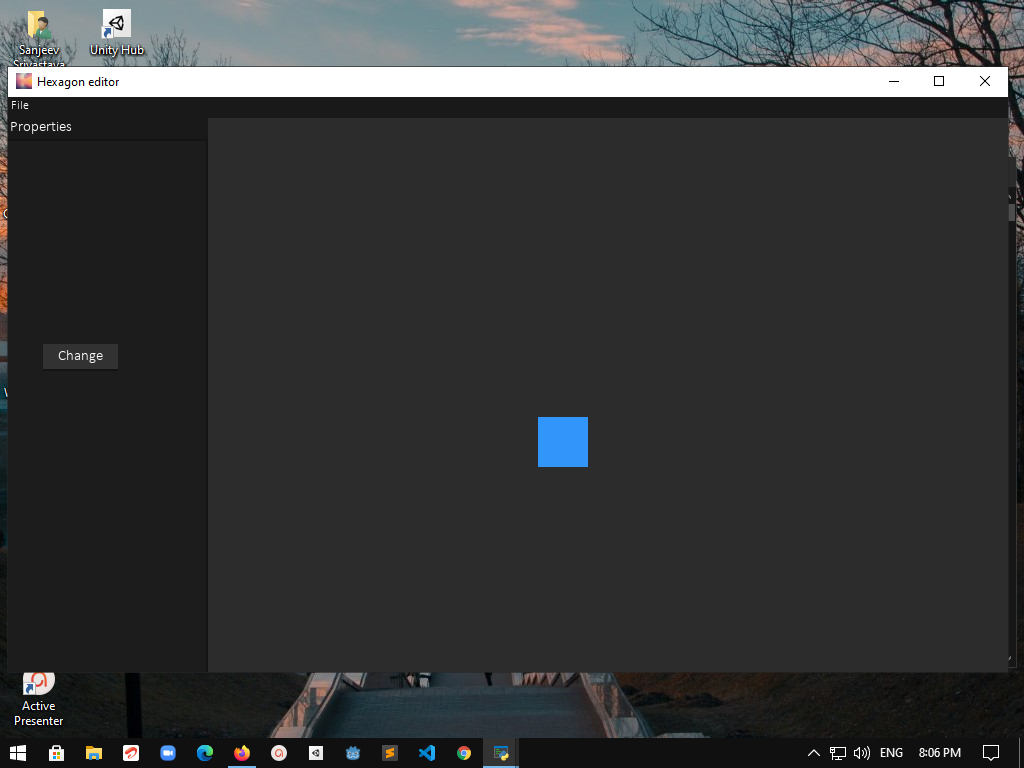
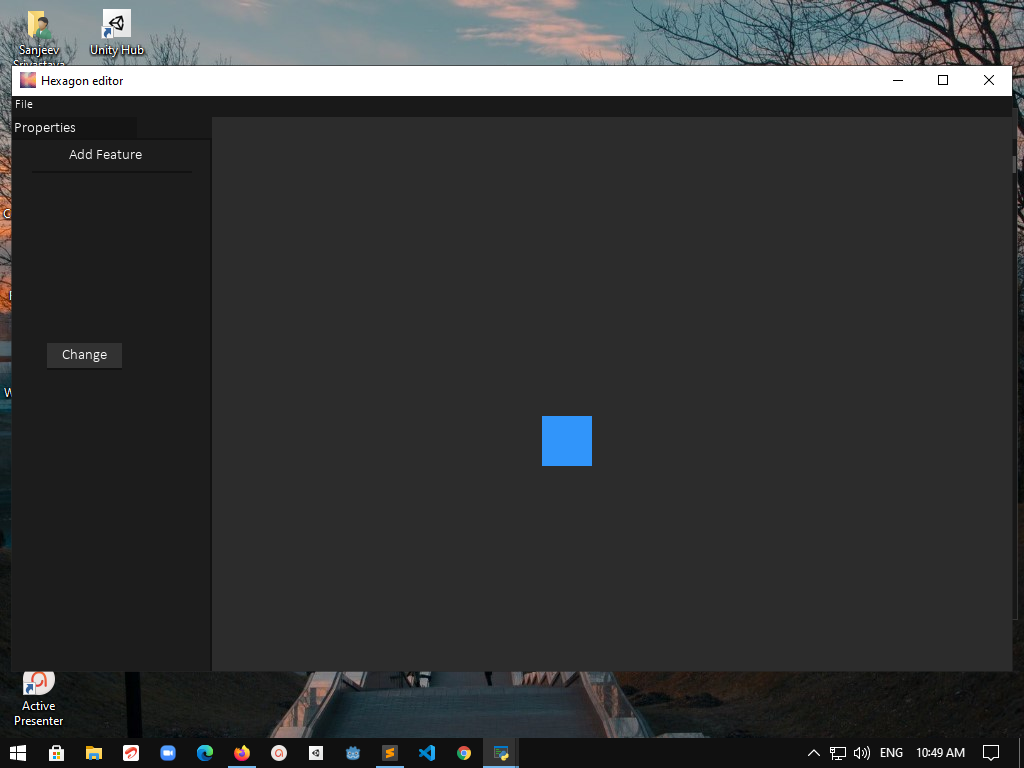
Change the look of Hexagon editor

diff --git a/Hexa.py b/Hexa.py
@@ -55,6 +55,7 @@ class GUI:
 				pygame.draw.rect(Display, self.NewColor, (self.Posx, self.Posy, self.Sizex, self.Sizey))
 				if pygame.mouse.get_pressed()[0]:
 					pygame.draw.rect(Display, self.Pressed, (self.Posx, self.Posy, self.Sizex, self.Sizey))
+					pygame.time.delay(100)
 					return 1
 
 				else: return 0
@@ -116,16 +117,21 @@ Menubar_Button = GUI.Button((25, 25, 25), (50, 50, 50), (40, 40, 40), 0, 0, 25, 
 
 # Properties GUI window
 Properties = GUI.Label((28, 28, 28), 0, 21, 200, 575)
-Properties_Border = GUI.Label((20, 20, 20), 198, 42, 2, 575)
+Properties_Border = GUI.Label((18, 18, 18), 198, 42, 2, 575)
 
 Properties_Tab = GUI.Label((25, 25, 25), 0, 21, 200, 21)
-Properties_Tab_Border = GUI.Label((20, 20, 20), 0, 42, 200, 2)
-Properties_Tab_Title = GUI.Text("Properties", (255, 255, 255), (2, 22), 15)
+Properties_Tab_Border = GUI.Label((18, 18, 18), 0, 42, 200, 2)
+Properties_Tab_Hilighter = GUI.Label((20, 20, 20), 0, 21, 125, 21)
+Properties_Tab_Title = GUI.Text("Properties", (255, 255, 255), (2, 24), 15)
+
+Add_Feature_Button = GUI.Button((28, 28, 28), (50, 50, 50), (40, 40, 40), 52, 47, 85, 25)
+Add_Feature_Title = GUI.Text("Add Feature", (255, 255, 255), (57, 51), 15)
+Add_Feature_Border = GUI.Label((18, 18, 18), 20, 75, 160, 2)
 
 # Change GUI button
 Change = GUI.Button((50, 50, 50), (70, 70, 70), (40, 40, 40), 35, 247, 75, 25)
 Change_Text = GUI.Text("Change", (255, 255, 255), (50, 251), 15)
-Change_Border = GUI.Label((20, 20, 20), 35, 272, 75, 2)
+Change_Border = GUI.Label((18, 18, 18), 35, 272, 75, 2)
 while Loop:
 	clock.tick(60)
 	Display.fill((44, 44, 44))
@@ -155,18 +161,21 @@ while Loop:
 	Properties.draw()
 	Properties_Tab.draw()
 	Properties_Border.draw()
+	Properties_Tab_Hilighter.draw()
 	Properties_Tab_Title.draw()
 	Properties_Tab_Border.draw()
+
+	Add_Feature_Button.draw()
+	Add_Feature_Title.draw()
+	Add_Feature_Border.draw()
 
 	IsPressed = Change.draw()
 	Change_Text.draw()
 	Change_Border.draw()
 
 	Menubar.draw()
-	IsMenuPressed = Menubar_Button.draw()
+	Menubar_Button.draw()
 	Menubar_Text.draw()
-	if IsMenuPressed == 1:
-		HEXA_ENGINE_LOG("File option has been chosen")
 
 	pygame.display.update()
 pygame.quit()
